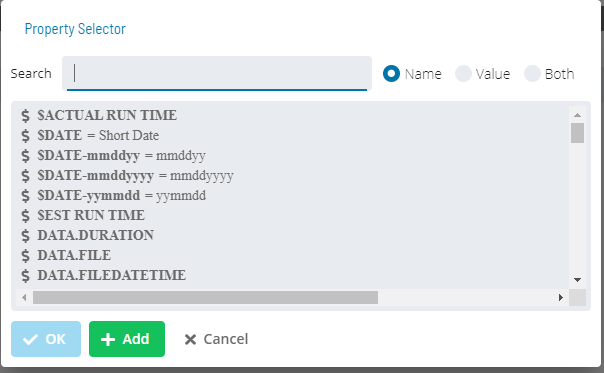
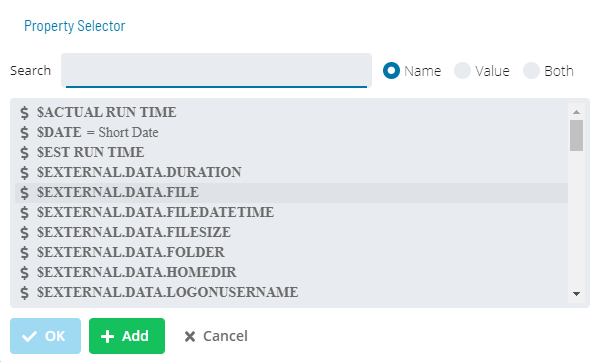
Proofing, update CloudEvents Trigger help

diff --git a/docs/server-triggers.md b/docs/server-triggers.md
@@ -1,7 +1,7 @@
 # MFT Server Triggers
 OpCon supports a new capability called CloudEvents which allows events to be submitted to OpCon through a Webhook. 
 
-OpCon MFT Server supports various triggers that are automatically forwarded to the OpCon CloudEvents environment allowing OpCon to perform actions based on the incoming triggers. These triggers are submitted to OpCon through the OpCon CloudEvents Webhook. During configuration, the OpCon MFT Server is registered with the OpCon CloudEvents Webhook. The registration process ensures that the OpCon MFT server is known to the OpCon system and abel to submit triggers. If the OpCon MFT Server is not correctly registered with the OpCon system all incoming triggers will be ignored.
+OpCon MFT Server supports various triggers that are automatically forwarded to the OpCon CloudEvents environment allowing OpCon to perform actions based on the incoming triggers. These triggers are submitted to OpCon through the OpCon CloudEvents Webhook. During configuration, the OpCon MFT Server is registered with the OpCon CloudEvents Webhook. The registration process ensures that the OpCon MFT server is known to the OpCon system and able to submit triggers. If the OpCon MFT Server is not correctly registered with the OpCon system all incoming triggers from that server will be ignored.
 
 ## Event Trigger Types
 The following event trigger types are supported:
@@ -20,7 +20,7 @@ Trigger ID | Trigger Type                      | Description
 **11**     | MFT Server Delete Directory       | a directory has been deleted from the MFT server   
 
 ## Using CloudEvents
-The CloudEvents implementation allows the mapping of incoming trigger events to OpCon Events allowing OpCon to perform actions based on the trigger events received. 
+The CloudEvents implementation allows the mapping of incoming trigger events to OpCon Events allowing OpCon to perform actions based on the trigger events received.
 Trigger filters are defined to reference specific event triggers received and Trigger Events define the action to be taken.
 
 To define trigger filter event mapping open the **CloudEvents Triggers** item in the **Library Management** section of Solution Manager.
@@ -200,8 +200,8 @@ When defining events, the **data** fields associated with the selected Trigger T
 
 To select a Filter Type value, select the **magic wand** to the right of the Event definition field.
 The required argument can then be selected from the drop-down list.
-- arguments are prefixed with the DATA and when inserted into the event definition as [[$EXTERNAL.DATA.argument]].
-- when using date properties on events, use [[$DATE]] and not [[$SCHEDULE DATE]] as there is no schedule and the $SCHEDULE DATE has no reference which will cause an error.  
+- All information contained within the CloudEvents event and available as a property is prefixed with the identifier EXTERNAL.DATA.
+- When using date properties on events, use [[$DATE]] and not [[$SCHEDULE DATE]] as there is no schedule and the $SCHEDULE DATE has no reference which will cause an error.  
 
 ## Examples
 
@@ -234,7 +234,7 @@ A simple CloudEvent to display the name of all incoming files received by the de
 - In the message section 
     - enter **File **.
     - select the **Magic Wand** to the right of the field.
-    - select **$ DATA.FILE** from the drop-down list and select **OK**.
+    - select **$EXTERNAL.DATA.FILE** from the drop-down list and select **OK**.
     - enter ** Arrived**.
 - Select **OK**.    
 
@@ -277,9 +277,9 @@ Includes multiple filters to detect when a specific file arrives in a specific d
 - In the message section 
     - enter **File **.
     - select the **Magic Wand** to the right of the field.
-    - select **$ DATA.FOLDER** from the drop-down list and select **OK**.
+    - select **$EXTERNAL.DATA.FOLDER** from the drop-down list and select **OK**.
     - enter **/**.
-    - select **$ DATA.FILE** from the drop-down list and select **OK**.
+    - select **$EXTERNAL.DATA.FILE** from the drop-down list and select **OK**.
     - enter ** Arrived**.
   
 ![Define Trigger Filter](../static/img/cloudevents-filter-event-specific-upload.png)
@@ -301,6 +301,7 @@ Windows server (default directory values).
 
 ![OpCon MFT Agent Task ](../static/img/opcon-mft-agent-task-definition.png)
 
+Next, create the CloudEvents Trigger Definition from the CloudEvents Triggers screen.
 - Select the **+ Add** button.
 - Enter a unique name for the filter in the **Name** field.
 - Select the green **+** bar below Trigger Filters to add a filter.
@@ -319,14 +320,14 @@ Windows server (default directory values).
 - Select the green **+** bar below Trigger Filters to add a filter for file name. 
     - As this is a filter on the selected type **MFT Server Upload** the drop-down list now contains values that are associated with the event details. However any previously used values are no longer available in the drop-down list.
 - Select **data.file** from the drop-down.
-- enter **WinChange.json** to indicate which directory the file should arrive in.
+- enter **WinChange.json** to ensure that this Event will only move the desired file.
 - Select **OK**.
 
 ![Filter Type Upload File](../static/img/cloudevents-filter-type-file1.png)
 
 - Select the green **+** bar below Trigger Events to add an event. 
 - For **Event Template** select **$JOB:ADD** from the drop-down list.
-- For **Schedule Date** enter **[[$DATE]]** (not possible to use $SCHEDULE DATE as the event is not associated with a schedule).
+- For **Schedule Date** enter **[[$DATE]]** (it is not possible to use $SCHEDULE DATE as the event is not associated with a schedule).
 - For **Schedule Name** enter the name of the target schedule.
 - For **Job Name** enter the name of the target job.
 - For **Frequency Name** enter the name of a frequency that is associated with the job.

diff --git a/docs/server-installation.md b/docs/server-installation.md
@@ -4,7 +4,7 @@
 
 ### Task Based License 2.0
 
->***Before starting an installation, an updated OpCon License key including a license for the OpConMFT Server must be obtained. Failure to do this will result in the OpCon MFT not being visible within Solution Manager.***
+>***Before starting an installation, an updated OpCon License key including a license for the OpConMFT Server must be obtained. Failure to do this will result in the OpCon MFT Agent Type not being visible within Solution Manager.***
 
 ### Other License Types
 
@@ -28,12 +28,14 @@ The installation process consists of the following:
 
 ## Webhook Registration
 
-The OpCon MFT Server submits all triggers associated with the server to the OpCon environment through an OpCon Cloudevents Webhook. For this to work, the OpCon MFT
-server must be authenticated as a valid user. This requires that the OpCon MFT Server is registered as a Webhook user receiving the authentication
+The OpCon MFT Server submits all triggers associated with the server to the OpCon environment through an OpCon CloudEvents Webhook. For this to work, the OpCon MFT
+Server must be authenticated as a valid user. This requires that the OpCon MFT Server is registered as a Webhook user receiving the authentication
 token from OpCon to be used with all POSTs to the OpCon Webhook. The registration process submits a request to the OpCOn MFT Agent Rest-API providing
-the information to initialize the connection between the OpCon MFT Server and the OpCon Cloudevents Webhook.  
+the information necessary to initialize the connection between the OpCon MFT Server and the OpCon CloudEvents Webhook.
 
-Using Solution Manager, select the OpCon MFT Agent that supports the required OpCon MFT Server and select the OpCon MFT Settings TAB.
+-----
+
+Using Solution Manager, select the OpCon MFT Agent which supports the required OpCon MFT Server (remember: this agent must already be authenticated) and select the OpCon MFT Settings TAB.
 
 
 ![OpCon MFT Server Registration](../static/img/opcon-mft-server-registration.png)
@@ -42,11 +44,11 @@ Using Solution Manager, select the OpCon MFT Agent that supports the required Op
 Using the OpCon MFT Settings TAB
 
 - Enable the associated OpCOn MFT Server by setting the **Server Enabled** field to **True**.
-- Set the **Server WebHook URL** field to **https://(opcon server)/api/cloudevents/events** which is the url of the OpCon Webhook. When entering the name of the server in the Webhook URL, the format must a full name that matches the OpCon server name in the certificate as SSL is used for this connection. If OpCon and OpCon MFT are installed on the same server use the value localhost.   
+- Set the **Server WebHook URL** field to **https://(OpCon Server)/api/cloudevents/events** which is the url of the OpCon Webhook. SSL is used for this connection, and so when entering the name of the server in the Webhook URL, the format must use the full name that matches the OpCon server name in the certificate. If OpCon and OpCon MFT are installed on the same server, use the value `localhost`.
 
 - Select **Save** to save the updated configuration.
 
-When the configuration is saved, the OpCon environment will submit a request to the OpCon MFT Agent to register the OpCon MFT Server with the OpCon Cloudevents Webhook.
+When the configuration is saved, the OpCon environment will submit a request to the OpCon MFT Agent to register the OpCon MFT Server with the OpCon CloudEvents Webhook.
 
 
 This results in two messages being displayed:
@@ -66,9 +68,9 @@ Select the **FTP Server** Menu Item.
 To enable web file sharing, set a port number for the HTTP port value. It is better to use a specific port instead of the default port (80).
 Select the **Start FTP** button to start the FTP Server.
 
-For additional information on fields associated with configuring the FTP / SFTP server open the help file associated with the OpCon MFT Server.
+For additional information on fields associated with configuring the FTP / SFTP server, open the help file associated with the OpCon MFT Server.
 
-Start the OpCon MFT Server Help file, by Selecting the **Server Help File** in the **OpConMFT n.nn** Application Menu.
+Start the OpCon MFT Server Help file by Selecting the **Server Help File** in the **OpConMFT n.nn** Application Menu.
 
 ***Server Console -> FTP Server ***
 ***Server Console -> SFTP Server ***

diff --git a/docs/trouble-shooting.md b/docs/trouble-shooting.md
@@ -339,4 +339,3 @@ table, but visible in the user interface. These fields are decoded during the jo
 During job execution, the JORS indicator value is stored in field code 62 of the stored job definition.
 During job execution, the OpCon Agent jobid is stored in field code 25001 of the stored job definition. If the job completes successfully, this code
 is set to 0, otherwise it will contain the OpCon Agent jobid. This value is used to restart a failed OpCon Agent task.
-
